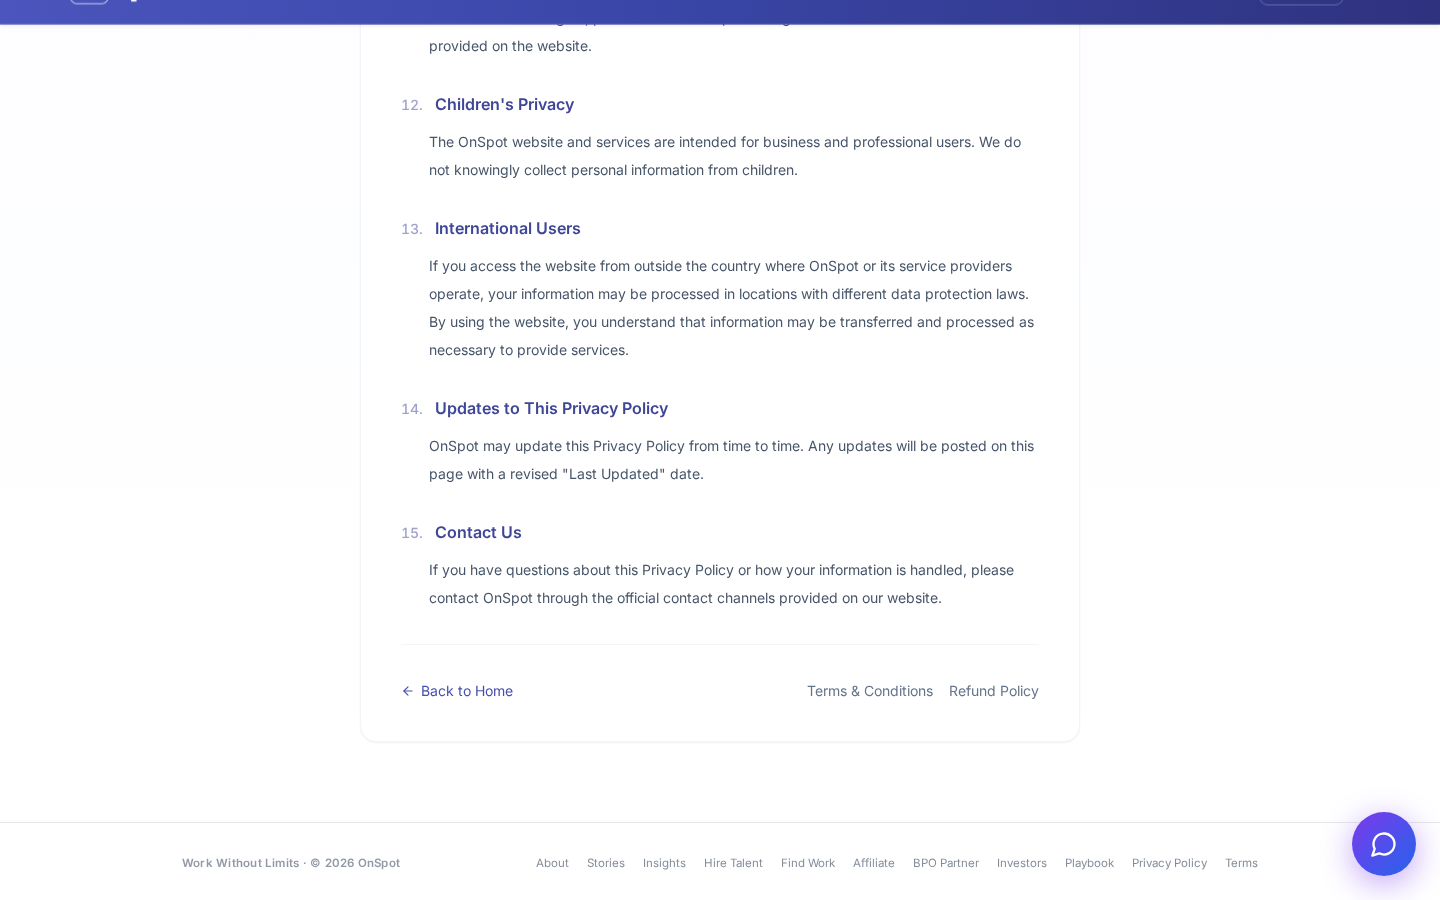
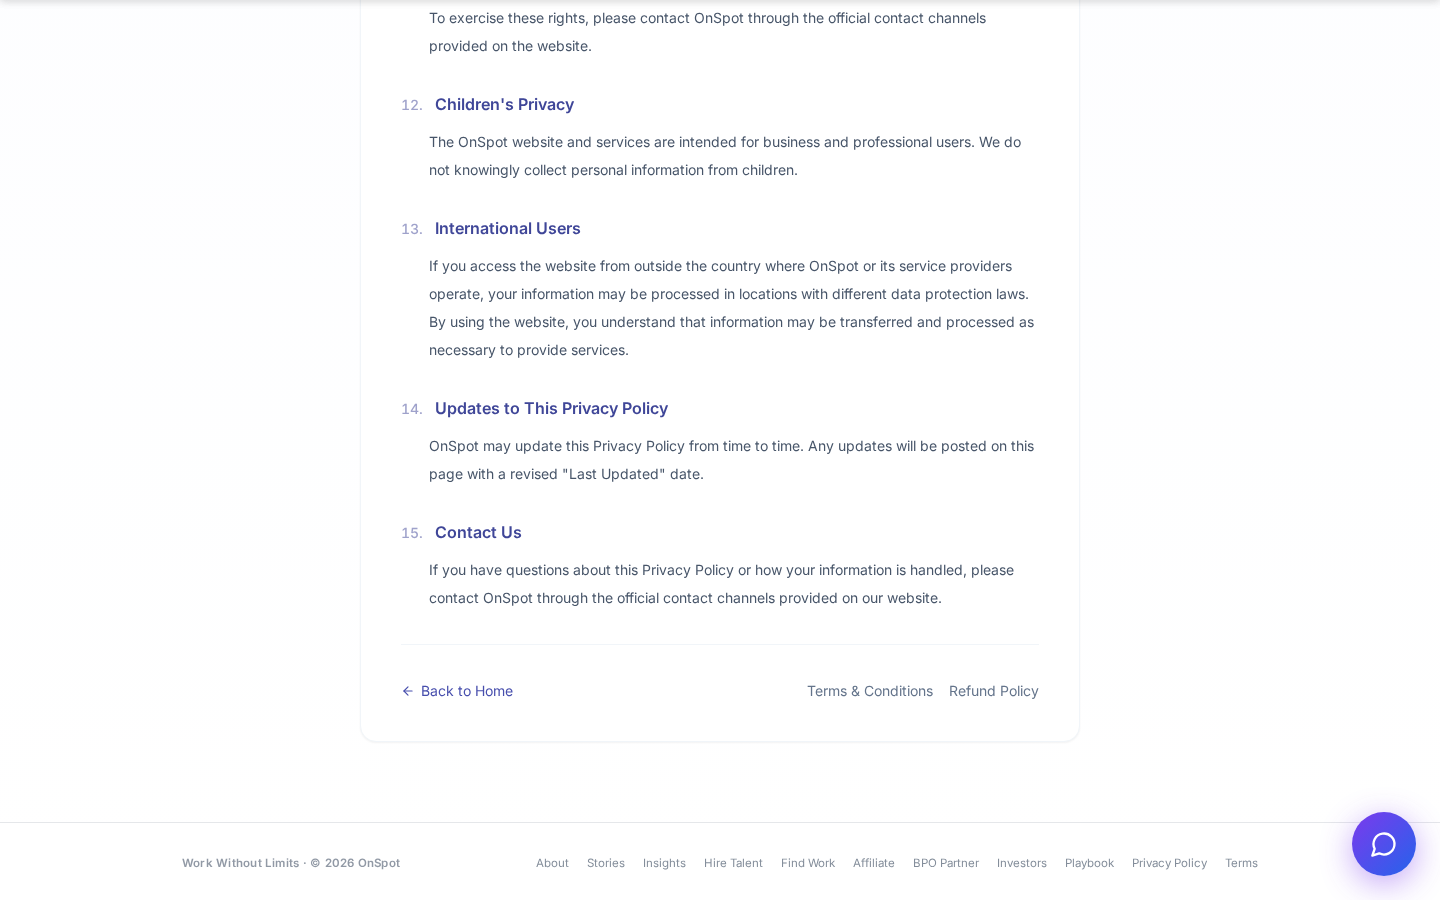
Update footer component and refresh associated screenshots and metadata
Replit-Commit-Author: Agent

Changed region(s): [[0.0, 0.0, 1.0, 0.0311]]

diff --git a/client/src/components/Footer.tsx b/client/src/components/Footer.tsx
@@ -22,28 +22,28 @@ const VARIANT_STYLES = {
     copyright: "rgba(220,224,255,0.38)",
     link: "rgba(220,224,255,0.46)",
     hover: "rgba(247,248,255,0.78)",
-    separator: "rgba(255,255,255,0.16)",
+    separator: "rgba(220,224,255,0.18)",
   },
   light: {
     background: "#ffffff",
     copyright: "rgba(71,85,105,0.60)",
     link: "rgba(71,85,105,0.68)",
     hover: "#334155",
-    separator: "rgba(15,23,42,0.10)",
+    separator: "rgba(71,85,105,0.14)",
   },
   indigo: {
     background: "#474EAD",
     copyright: "rgba(220,224,255,0.38)",
     link: "rgba(220,224,255,0.46)",
     hover: "rgba(247,248,255,0.78)",
-    separator: "rgba(255,255,255,0.16)",
+    separator: "rgba(220,224,255,0.18)",
   },
   dark: {
     background: "#060816",
     copyright: "rgba(220,224,255,0.38)",
     link: "rgba(220,224,255,0.46)",
     hover: "rgba(247,248,255,0.78)",
-    separator: "rgba(255,255,255,0.16)",
+    separator: "rgba(220,224,255,0.18)",
   },
 } as const;
 
